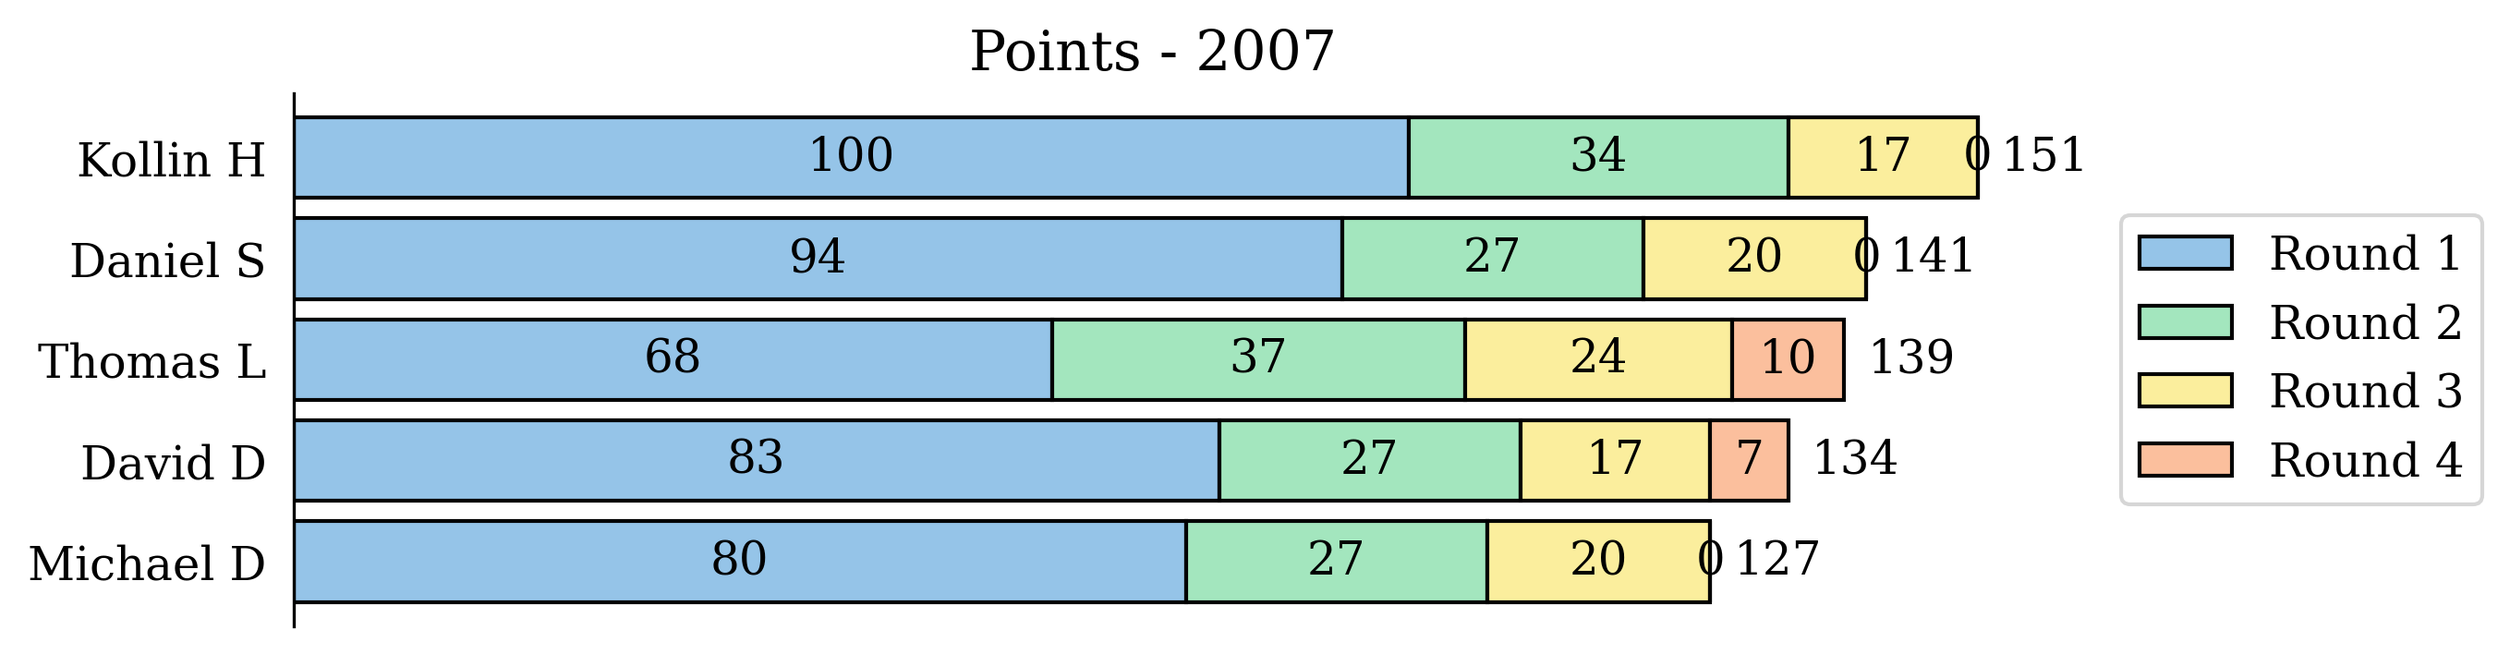
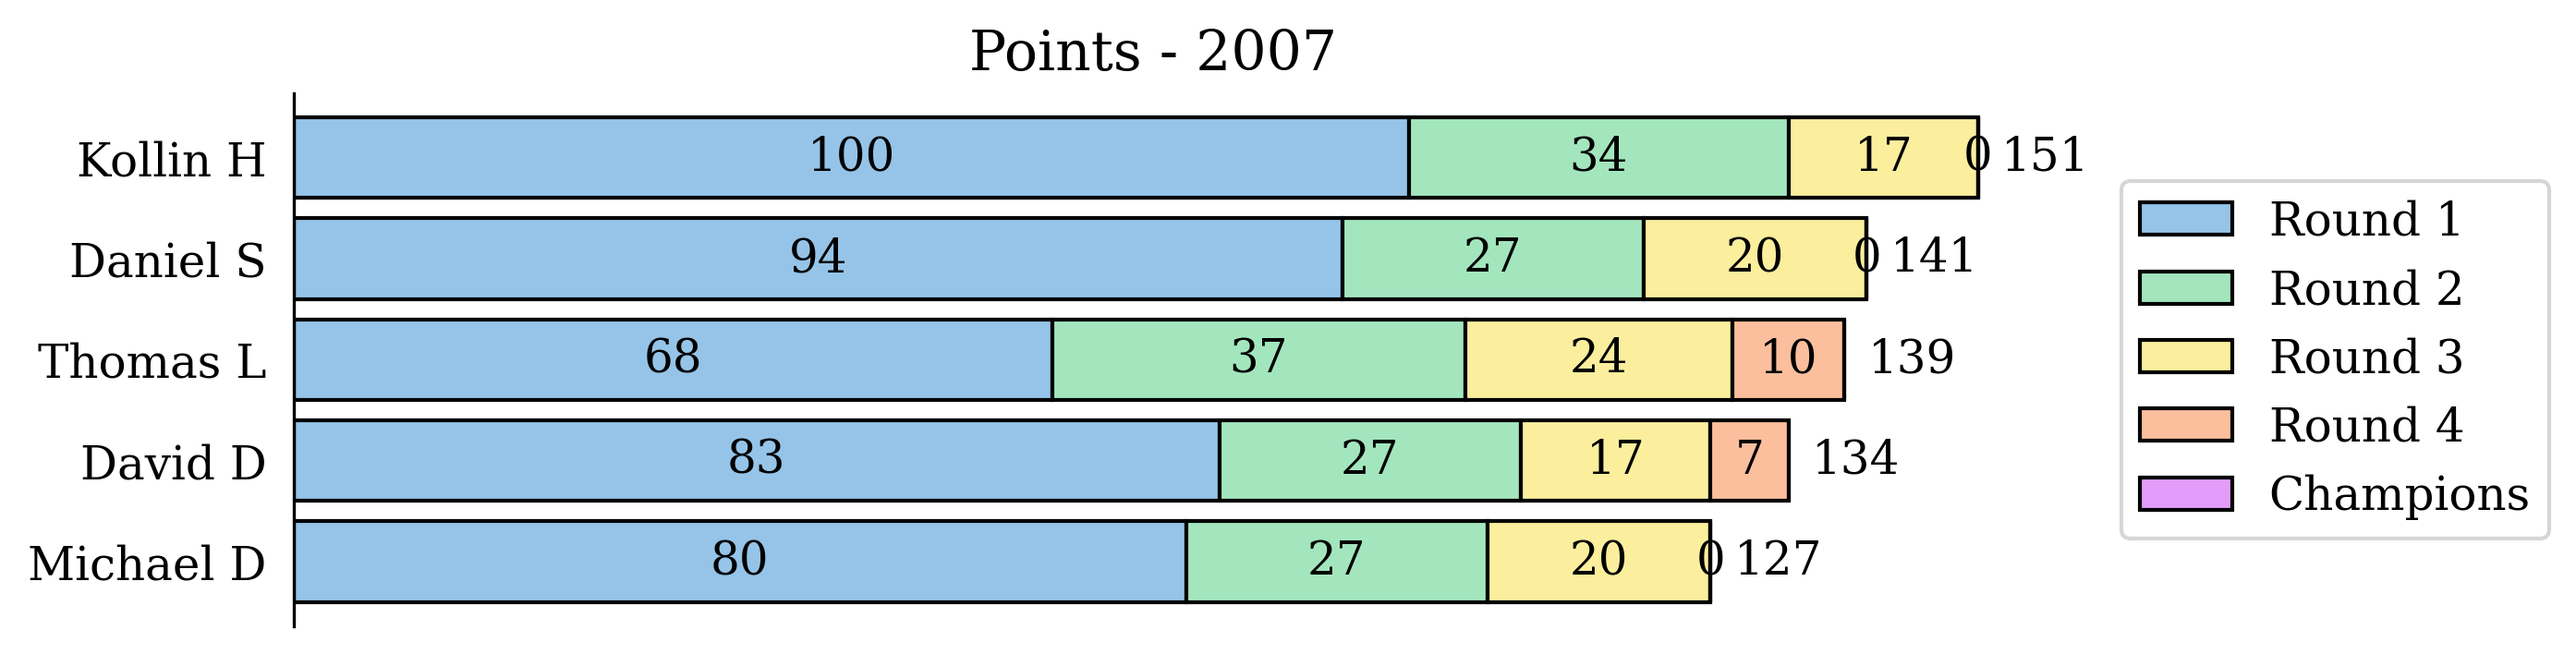
Add functionality for plotting with OtherPoints table
Also improve legend specification.

diff --git a/scripts/plots.py b/scripts/plots.py
@@ -8,6 +8,7 @@ import pandas as pd
 import matplotlib as mpl
 import matplotlib.pyplot as plt
 from scripts.scores import year_points_table
+from scripts.database import DataBaseOperations
 
 # set font to look like Latex
 font = {'family' : 'serif',
@@ -20,6 +21,11 @@ def year_chart(year, max_round='Champions', save=False):
 
     points_unsorted_df = year_points_table(year)
     round_names = points_unsorted_df.index[:-1].tolist()
+    db_ops = DataBaseOperations()
+    other_data = []
+    with db_ops as db:
+        for rnd in [1,2,3,4]:
+            other_data.append(db.get_other_points(year, rnd))
 
     # parse which rounds to plot
     # In some years, after the third round you some individuals
@@ -64,18 +70,24 @@ def year_chart(year, max_round='Champions', save=False):
                     )
                 )
                 # add text
-                patch = axis_list[-1][0]
-                left_patch_position, bottom_patch_position = patch.get_xy()
-                x_round = 0.5*patch.get_width() + left_patch_position
-                y_individual = 0.5*patch.get_height() + bottom_patch_position
-                # if round_points != 0:
-                axis.text(x_round, y_individual, f'{round_points}', ha='center', va='center')
+                y_individual = add_point_string(
+                    individual, playoff_round, round_points, other_data, axis, axis_list)
                 left += round_points
             if playoff_round == rounds_to_plot[-1]:
                 # add total sum of points outside bar graph
                 x_total = left + max_points/25
                 total_points = points_df[individual].loc[rounds_to_plot].sum()
                 axis.text(x_total, y_individual, f'{total_points}', ha='center',va='center')
+            if playoff_round == 'Champions' and len(axis_list) == 4:
+                axis_list.append(
+                    axis.barh(individual_i, 0,
+                                left = left,
+                                align = 'center',
+                                edgecolor = 'black',
+                                color = colors[playoff_round],
+                                label = playoff_round
+                    )
+                )
 
     # set axis and add labels
     y_pos = np.arange(num_individuals)
@@ -97,18 +109,51 @@ def year_chart(year, max_round='Champions', save=False):
     axis.xaxis.set_ticks_position('none')
     axis.get_xaxis().set_ticks([])
 
-    add_legend(axis_list)
+    add_legend(axis_list, other_data)
     if save:
         # save figure for year
         file_name = fig_title.replace(' ','')
         save_figure(file_name, year)
 
 
-def add_legend(axis_list):
+def add_point_string(individual, playoff_round, round_points, other_data, axis, axis_list):
+    '''Add string of the points earned by the individual in a playoff round'''
+
+    # find position to place the string
+    patch = axis_list[-1][0]
+    left_patch_position, bottom_patch_position = patch.get_xy()
+    x_round = 0.5*patch.get_width() + left_patch_position
+    y_individual = 0.5*patch.get_height() + bottom_patch_position
+
+    # create the string
+    point_string = f'{round_points}'
+    round_number = int(playoff_round[-1]) if playoff_round[:5] == 'Round' else None
+    if round_number in [1,2,3,4]:
+        if individual in other_data[round_number-1].index:
+            point_string += '$\\ast$'
+
+    axis.text(x_round, y_individual,
+        point_string,
+        ha='center', va='center')
+
+    return y_individual
+
+def add_legend(axis_list, other_data):
     '''Add a legend'''
 
     # remove unused elements of a_bar
     a_bar2 = list(filter(lambda a: a != 0, axis_list))
+    last_index = len(axis_list)
+    add_star_description = sum([len(other.index) for other in other_data[:last_index]]) != 0
+    if add_star_description:
+        a_bar2.append(
+            mpl.patches.Rectangle((0, 0), 1, 1,
+                facecolor = "none",
+                fill = False,
+                edgecolor = 'none',
+                linewidth = 0,
+                label = '$\\ast$: -7 points')
+        )
 
     # Put a legend to the right of the current axis
     plt.legend(handles=a_bar2, loc='center left', bbox_to_anchor=(1.05,0.5))
